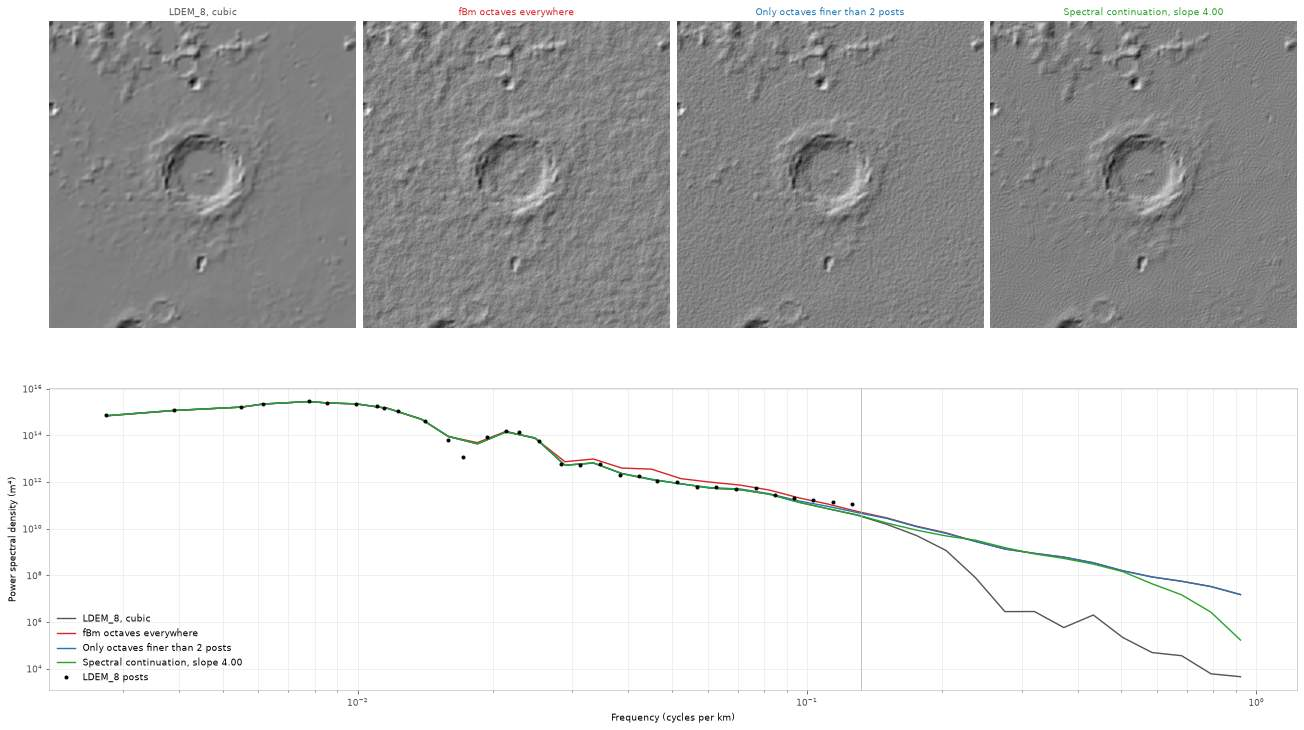
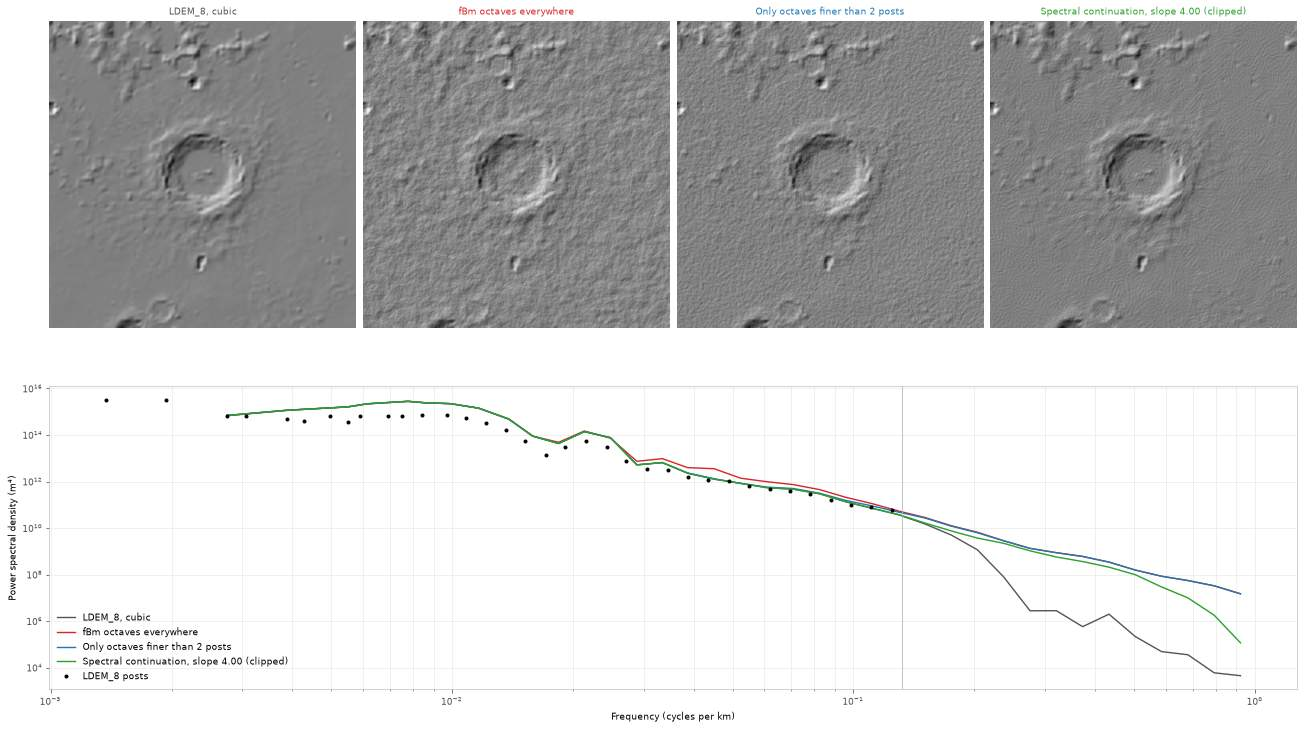
Gallery: source chain seam modes side by side, and the DEM noise figure fits its spectrum over 24 degrees

diff --git a/docs/gallery/sources/chain.py b/docs/gallery/sources/chain.py
@@ -1,12 +1,13 @@
 # SPDX-License-Identifier: BSD-3-Clause
 
-"""Filling the gaps in a DEM with a source chain, which tries its sources in order at each point: a
-512 m DEM with 2 m posts missing a strip and a corner, chained over an unrelated synthetic source of
-fractal noise, as a regional model or a generic fallback would be. The chain switches sources
-outright, matching neither height nor slope, so each gap's edge shows as a step. Top left: the DEM,
-its gaps in red. Top middle: the synthetic fallback alone. Top right: the chain, gaps outlined.
-Bottom: a west to east profile across the strip, the chain against the DEM's own ground before the
-strip was cut out (dashed), the gap shaded."""
+"""Filling the gaps in a DEM with a source chain and matching it at the seams: a 512 m DEM with 2 m
+posts missing a strip and a corner (outlined), chained over an unrelated synthetic source of
+fractal noise, as a regional model or a generic fallback would be. Left to right: no matching, the
+chain switching sources outright so each gap's edge steps; a 20 m feather blending the two across
+the edge; height matching, the fallback shifted by the gap between the sources along the edge,
+spread smoothly into the gap; and slope matching, which also carries the DEM's slope across the
+edge. Top: hillshades. Middle: a west to east height profile across the strip against the DEM
+before the strip was cut out (dashed), the gap shaded. Bottom: the slope along it."""
 
 import gallery
 import matplotlib.pyplot as plt
@@ -20,6 +21,13 @@ PIXEL = 2.0
 POSTS = 257
 STRIP = (100, 130)
 PROFILE_ROW = 60
+MODES = [
+    ("No matching", "NONE"),
+    ("Feather, 20 m", "FEATHER"),
+    ("Height", "HEIGHT"),
+    ("Slope", "SLOPE"),
+]
+COLORS = ["#7f7f7f", "#ff7f0e", "#1f77b4", "#2ca02c"]
 
 
 def figure(quick=False):
@@ -43,41 +51,43 @@ def figure(quick=False):
     fallback = terraingen.SyntheticSource(
         [terraingen.NoiseLayer(terraingen.FractalParams(seed=21, wavelength=300.0, amplitude=20.0))]
     )
-    grid = source.grid()
-    fallback_heights = terraingen.evaluate(terraingen.TerrainGenerator(fallback, []), grid=grid).values
-    chained = terraingen.evaluate(
-        terraingen.TerrainGenerator(terraingen.SourceChain([source, fallback]), [])
-    ).values
     gaps = np.isnan(holed)
-
-    fig = plt.figure(figsize=(16, 10), layout="constrained")
-    layout = fig.add_gridspec(2, 3, height_ratios=[1, 0.6])
-    axes = [fig.add_subplot(layout[0, column]) for column in range(3)]
-    profile_ax = fig.add_subplot(layout[1, :])
-    gallery.show_hillshade(axes[0], np.where(gaps, np.nanmean(holed), holed), PIXEL)
-    axes[0].imshow(np.ma.masked_where(~gaps, gaps), cmap="autumn", alpha=0.7)
-    axes[0].axhline(PROFILE_ROW, color="#1f77b4", lw=1.0, ls="--")
-    axes[0].set_title(f"DEM, {int(gaps.sum())} cells without data")
-    gallery.show_hillshade(axes[1], fallback_heights, PIXEL)
-    axes[1].set_title("Unrelated synthetic fallback")
-    gallery.show_hillshade(axes[2], chained, PIXEL)
-    axes[2].contour(gaps, levels=[0.5], colors="#d62728", linewidths=1.0)
-    axes[2].axhline(PROFILE_ROW, color="#1f77b4", lw=1.0, ls="--")
-    axes[2].set_title("Chain: steps at every gap edge")
-
     x = (np.arange(POSTS) - 0.5 * (POSTS - 1)) * PIXEL
     window = slice(STRIP[0] - 40, STRIP[1] + 40)
-    profile_ax.axvspan(x[STRIP[0]] - 0.5 * PIXEL, x[STRIP[1] - 1] + 0.5 * PIXEL, color="#d62728", alpha=0.12)
-    profile_ax.plot(
+
+    fig = plt.figure(figsize=(18, 12), layout="constrained")
+    layout = fig.add_gridspec(3, len(MODES), height_ratios=[1, 0.55, 0.45])
+    height_ax = fig.add_subplot(layout[1, :])
+    slope_ax = fig.add_subplot(layout[2, :], sharex=height_ax)
+    for ax in (height_ax, slope_ax):
+        ax.axvspan(x[STRIP[0]] - 0.5 * PIXEL, x[STRIP[1] - 1] + 0.5 * PIXEL, color="#d62728", alpha=0.1)
+    height_ax.plot(
         x[window],
         truth[PROFILE_ROW, window],
-        color="0.35",
+        color="black",
         lw=1.0,
         ls="--",
         label="DEM before the gap was cut",
     )
-    profile_ax.plot(x[window], chained[PROFILE_ROW, window], color="#1f77b4", lw=1.6, label="Chain")
-    profile_ax.set_xlabel("West to east (m)")
-    profile_ax.set_ylabel("Height (m)")
-    profile_ax.legend()
+    for column, ((title, mode), color) in enumerate(zip(MODES, COLORS, strict=True)):
+        seams = terraingen.ChainSeams()
+        seams.mode = getattr(terraingen.ChainSeamMode, mode)
+        seams.width = 20.0
+        seams.decay_length = 60.0
+        chain = terraingen.SourceChain([source, fallback], seams)
+        chained = terraingen.evaluate(terraingen.TerrainGenerator(chain, [])).values
+        ax = fig.add_subplot(layout[0, column])
+        gallery.show_hillshade(ax, chained, PIXEL)
+        ax.contour(gaps, levels=[0.5], colors="#d62728", linewidths=0.8)
+        ax.axhline(PROFILE_ROW, color=color, lw=1.0, ls="--")
+        ax.set_title(title, color=color)
+        profile = chained[PROFILE_ROW, window]
+        height_ax.plot(x[window], profile, color=color, lw=1.5, label=title)
+        slope_ax.plot(
+            x[window], np.degrees(np.arctan(np.gradient(profile, PIXEL))), color=color, lw=1.3, label=title
+        )
+    height_ax.set_ylabel("Height (m)")
+    height_ax.legend(ncol=5)
+    slope_ax.set_xlabel("West to east (m)")
+    slope_ax.set_ylabel("Slope east (degrees)")
     return fig

diff --git a/docs/gallery/dem/noise_added.py b/docs/gallery/dem/noise_added.py
@@ -3,11 +3,14 @@
 """Adding noise to a measured DEM: the LOLA global lunar DEM at 8 pixels per degree (about 3.8 km
 posts, LDEM_8, Smith et al. 2010) over 12 degrees around Copernicus, refined by cubic
 interpolation to about 500 m on the Moon's sphere. Left to right: the DEM alone; a stack of fBm
-octaves from 16 km down to 1 km, 250 m high at 8 km and rising as wavelength^0.8, added everywhere, so its long
-octaves pile hills onto relief the DEM already measures; the same stack with every octave 2 or
-more of the DEM's posts long left out, keeping only detail the DEM cannot hold; and spectral
-continuation, which carries on the power law fitted to the DEM's own posts below their resolution.
-Bottom: the radially averaged power spectra, the posts' Nyquist frequency marked."""
+octaves from 16 km down to 1 km, 250 m high at 8 km and rising as wavelength^0.8, added
+everywhere, so its long octaves pile hills onto relief the DEM already measures; the same stack
+with every octave 2 or more of the DEM's posts long left out, keeping only detail the DEM cannot
+hold; and spectral continuation, which carries on below the posts' resolution the power law
+fitted to them over 24 degrees around the window; their spectrum falls faster than the steepest
+slope the continuation takes, 4, so the fit is clipped to it.
+Bottom: the radially averaged power spectra, the 24 degrees of posts as dots and their Nyquist
+frequency marked."""
 
 import gallery
 import matplotlib.pyplot as plt
@@ -22,6 +25,7 @@ ASSETS = [assets.LOLA_LDEM_8]
 RADIUS_M = 1737400.0
 CENTER = (-20.08, 9.62)
 HALF_WIDTH_DEG = 6.0
+FIT_HALF_WIDTH_DEG = 12.0
 POSTS_PER_DEG = 8
 OCTAVES_M = [16000.0, 8000.0, 4000.0, 2000.0, 1000.0]
 COLORS = ["#555555", "#d62728", "#1f77b4", "#2ca02c"]
@@ -58,9 +62,9 @@ def figure(quick=False):
     post_m = np.radians(post) * RADIUS_M
 
     lon, lat = CENTER
-    first_row = int((90.0 - lat - HALF_WIDTH_DEG) * POSTS_PER_DEG)
-    first_column = int((lon - HALF_WIDTH_DEG) % 360.0 * POSTS_PER_DEG)
-    count = int(2 * HALF_WIDTH_DEG * POSTS_PER_DEG)
+    first_row = int((90.0 - lat - FIT_HALF_WIDTH_DEG) * POSTS_PER_DEG)
+    first_column = int((lon - FIT_HALF_WIDTH_DEG) % 360.0 * POSTS_PER_DEG)
+    count = int(2 * FIT_HALF_WIDTH_DEG * POSTS_PER_DEG)
     posts = heights[first_row : first_row + count, first_column : first_column + count]
     fit = terraingen.estimate_power_law_spectrum(
         terraingen.Raster.from_array(
@@ -80,7 +84,10 @@ def figure(quick=False):
         ("LDEM_8, cubic", []),
         ("fBm octaves everywhere", [octave_stack(moon, source, None)]),
         ("Only octaves finer than 2 posts", [octave_stack(moon, source, 2.0)]),
-        (f"Spectral continuation, slope {fit.slope:.2f}", [continuation]),
+        (
+            f"Spectral continuation, slope {fit.slope:.2f}" + (" (clipped)" if fit.clipped else ""),
+            [continuation],
+        ),
     ]
     window = terraingen.RasterGrid.covering(
         (lon - HALF_WIDTH_DEG, lat - HALF_WIDTH_DEG, lon + HALF_WIDTH_DEG, lat + HALF_WIDTH_DEG), pixel_deg
